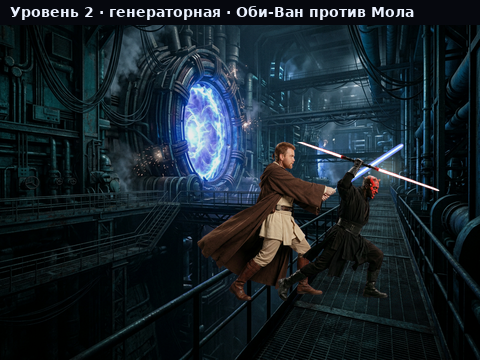
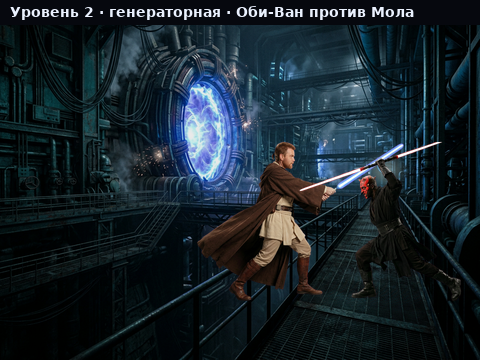
Основная версия: Дарт Мол развёрнут лицом к герою (direction = -90)

Changed region(s): [[0.5625, 0.3972, 0.9688, 0.825], [0.8438, 0.3972, 0.9062, 0.4278], [0.625, 0.5194, 0.6562, 0.55]]

diff --git a/tools/mock_screens.py b/tools/mock_screens.py
@@ -2,7 +2,7 @@
 """«Скриншоты» уровней из готовых ассетов (кинематографичная версия)."""
 import json
 import os
-from PIL import Image, ImageDraw, ImageFilter, ImageFont, ImageEnhance
+from PIL import Image, ImageDraw, ImageFilter, ImageFont, ImageOps, ImageEnhance
 
 ROOT = os.path.dirname(os.path.dirname(os.path.abspath(__file__)))
 PREV = os.path.join(ROOT, "preview")
@@ -30,7 +30,9 @@ def vec(slug, idx=0):
     return Image.open(os.path.join(VEC, s["costumes"][idx]["file"])).convert("RGBA")
 
 
-def place(canvas, img, sx, sy, size_percent):
+def place(canvas, img, sx, sy, size_percent, mirror=False):
+    if mirror:
+        img = ImageOps.mirror(img)
     w = img.width * size_percent / 100.0
     h = img.height * size_percent / 100.0
     im = img.resize((max(1, int(w)), max(1, int(h))), Image.LANCZOS)
@@ -95,7 +97,7 @@ def level2():
     c = bg_film("generator")
     place(c, film("obiwan", 1), 5, -40, 37)
     flash(c, 145, 10, 30)
-    place(c, film("maul", 1), 130, -40, 37)
+    place(c, film("maul", 1), 130, -40, 37, mirror=True)
     return label(c, "Уровень 2 · генераторная · Оби-Ван против Мола")
 
 

diff --git a/tools/build_sb3.py b/tools/build_sb3.py
@@ -479,6 +479,7 @@ ml.add_sound("удар-меча", "удар-меча.wav")
 ml.add_sound("гудение-меча", "гудение-меча.wav")
 ml.visible = False
 ml.x, ml.y, ml.size, ml.rotation_style = 120, CHAR_Y, CHAR_SIZE, "left-right"
+ml.direction = -90            # костюмы нарисованы лицом вправо — отражаем к герою
 ml.script(40, 40, when_flag(), hide())
 ml.script(40, 160, when_recv("старт"), hide())
 
